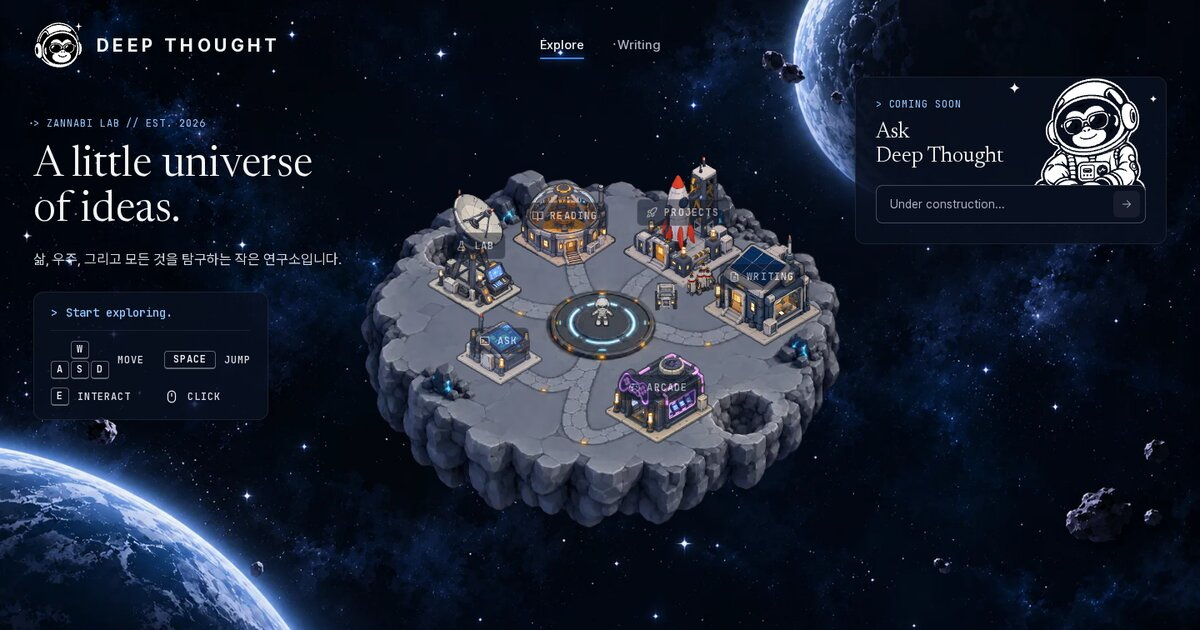
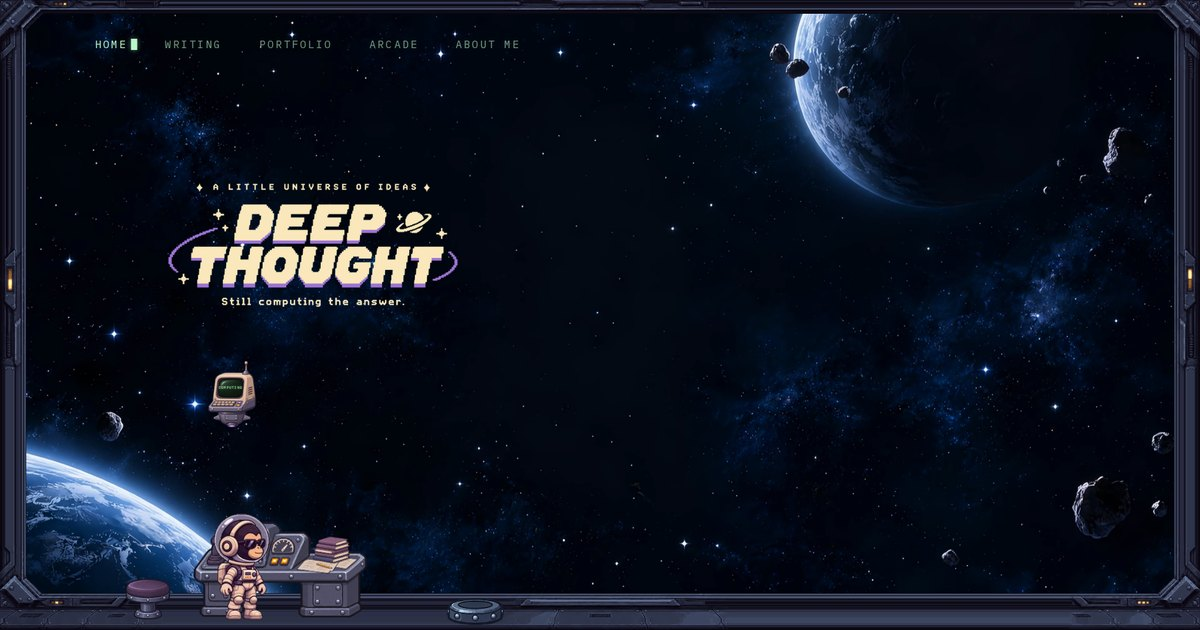
refactor: PC 전용 레이아웃, 스크램블·동작 줄이기 공용화, 스프라이트 시트 정보 분리, 미리보기 이미지·문서 갱신
- viewport width=1280 고정, 반응형 미디어쿼리 제거, 터치 기기는 배경 영상 대신 정지 그림
- useScramble 훅으로 메뉴·준비 중·행성 좌표의 스크램블 루프 통합, reducedMotion() 공용화
- 홀로그램·드론·지구본·데스크 불빛 시트 정보를 cockpit-sheets.ts로 분리
- opengraph-image를 새 홈으로 다시 찍고 설명 갱신
- 안 쓰는 참고 그림 2장 삭제, README·DESIGN·art README 갱신

diff --git a/apps/web/components/hud/Zannabi.tsx b/apps/web/components/hud/Zannabi.tsx
@@ -2,7 +2,9 @@
 
 import { useEffect, useRef, useState } from 'react';
 import { HUD_EVENT } from '@/components/space/CockpitHud';
+import { reducedMotion } from '@/lib/motion';
 import * as L from './cockpit-layout';
+import { DESK, DRONE, GLOBE, HOLO } from './cockpit-sheets';
 import styles from './Zannabi.module.css';
 import {
   type Behavior,
@@ -39,17 +41,6 @@ import {
 
 const CELL: Box = [0, 0, 200, 240];
 const CANVAS: Box = [-60, -60, 420, 314];
-const HOLO = { frames: 24, fps: 14, w: 296, h: 441 };
-const DRONE = { w: 200, h: 304, frames: 49, fps: 21, crop: 491, from: 11, to: 36 };
-const DRONE_DY = [0, 0, 0, 0, 0, 0, 0, 0, 0, 0, 0, 3, 23, 45, 63, 68, 71, 71, 63, 35, 9, -15, -24, -31, -35, -36, -37, -38, -39, -39, -39, -35, -30, -19, -12, -4, -1, 0, 0, 0, 0, 0, 0, 0, 0, 0, 0, 0, 0];
-const GLOBE = { size: 176, spin: 24, off: 25, fps: 21, spinFps: 10.5 };
-const DESK_W = 554;
-const DESK_H = 307;
-const DESK_LIGHTS: [number, number, number, number, 'amber' | 'violet', number][] = [
-  [65, 46, 22, 14, 'violet', 300],
-  [249, 118, 21, 14, 'amber', 0],
-  [281, 118, 20, 14, 'amber', 1200],
-];
 const HOLD_MS = 900;
 const NOTICE = { reach: 1.8, cooldown: 25000 };
 const DONE_MS = 1100;
@@ -243,7 +234,7 @@ export function Zannabi() {
       droneDrawn = droneTick;
       droneCtx.clearRect(0, 0, drone.width, drone.height);
       droneCtx.drawImage(droneImg, droneTick * DRONE.w, 0, DRONE.w, DRONE.h, 0, 0, drone.width, drone.height);
-      const lift = DRONE_DY[droneTick]! / DRONE.crop;
+      const lift = DRONE.dy[droneTick]! / DRONE.crop;
       droneBody.style.translate = `0 ${lift * 100}%`;
       terminal.style.setProperty('--lift', `${lift}`);
     };
@@ -606,7 +597,7 @@ export function Zannabi() {
       return behavior;
     };
 
-    const still = matchMedia('(prefers-reduced-motion: reduce)').matches;
+    const still = reducedMotion();
     let id = 0;
     let last = 0;
     let acc = 0;
@@ -712,13 +703,13 @@ export function Zannabi() {
   return (
     <div ref={laneRef} className={styles.lane} style={{ width: L.ROOM.w, height: L.ROOM.h }} aria-hidden>
       <div ref={deskRef} className={styles.desk} style={L.box(L.DESK)}>
-        <img src="/world/cockpit-desk.webp" alt="" width={DESK_W} height={DESK_H} draggable={false} />
+        <img src="/world/cockpit-desk.webp" alt="" width={DESK.w} height={DESK.h} draggable={false} />
         <Tip>Pilot the ship</Tip>
-        {DESK_LIGHTS.map(([x, y, w, h, tone, delay]) => (
+        {DESK.lights.map(([x, y, w, h, tone, delay]) => (
           <span
             key={`${x}-${y}`}
             className={styles[tone]}
-            style={{ left: `${(x / DESK_W) * 100}%`, top: `${(y / DESK_H) * 100}%`, width: `${(w / DESK_W) * 100}%`, height: `${(h / DESK_H) * 100}%`, animationDelay: `${delay}ms` }}
+            style={{ left: `${(x / DESK.w) * 100}%`, top: `${(y / DESK.h) * 100}%`, width: `${(w / DESK.w) * 100}%`, height: `${(h / DESK.h) * 100}%`, animationDelay: `${delay}ms` }}
           />
         ))}
         <canvas ref={globeRef} className={styles.globe} style={{ left: `${L.GLOBE.x * 100}%`, bottom: `${L.GLOBE.y * 100}%`, width: L.GLOBE.w }} />

diff --git a/apps/web/components/space/CockpitHud.tsx b/apps/web/components/space/CockpitHud.tsx
@@ -1,7 +1,7 @@
 'use client';
 
 import { useEffect, useState } from 'react';
-import { scramble, settled } from '@/lib/scramble';
+import { useScramble } from '@/lib/scramble';
 import styles from './CockpitHud.module.css';
 
 export const HUD_EVENT = 'cockpit:hud';
@@ -9,37 +9,17 @@ export const HUD_EVENT = 'cockpit:hud';
 const TARGET = { x: 930, y: 140, r: 11 };
 const TEXT = { x: 975, y: 118 };
 const READOUT = 'TARGET: KEPLER-442b · 4.2 AU';
-const START_MS = 550;
-const TYPE = { settle: 420, spread: 24, blank: true };
+const TYPE = { settle: 420, spread: 24, blank: true, delay: 550, step: 45 };
 
 export function CockpitHud() {
   const [on, setOn] = useState(false);
-  const [line, setLine] = useState('');
+  const line = useScramble(READOUT, TYPE, on);
 
   useEffect(() => {
     const toggle = (event: Event) => setOn((event as CustomEvent<boolean>).detail);
     window.addEventListener(HUD_EVENT, toggle);
     return () => window.removeEventListener(HUD_EVENT, toggle);
   }, []);
-
-  useEffect(() => {
-    if (!on) return setLine('');
-    if (matchMedia('(prefers-reduced-motion: reduce)').matches) return setLine(READOUT);
-    const begin = performance.now();
-    let id = 0;
-    let last = 0;
-    const frame = (now: number) => {
-      const elapsed = now - begin - START_MS;
-      const done = settled(READOUT, elapsed, TYPE);
-      if (now - last >= 45 || done) {
-        last = now;
-        setLine(elapsed < 0 ? '' : scramble(READOUT, elapsed, TYPE));
-      }
-      if (!done) id = requestAnimationFrame(frame);
-    };
-    id = requestAnimationFrame(frame);
-    return () => cancelAnimationFrame(id);
-  }, [on]);
 
   const { x, y, r } = TARGET;
   const c = 5;
@@ -53,7 +33,7 @@ export function CockpitHud() {
       </g>
       <polyline points={`${x + r},${y - r + 2} ${x + r + 18},${TEXT.y - 3} ${TEXT.x - 6},${TEXT.y - 3}`} pathLength={1} className={`${styles.line} ${styles.leader}`} />
       <text x={TEXT.x} y={TEXT.y} className={styles.text}>
-        {line}
+        {on ? line : ''}
       </text>
     </svg>
   );

diff --git a/apps/web/lib/scramble.ts b/apps/web/lib/scramble.ts
@@ -1,6 +1,9 @@
+import { useEffect, useState } from 'react';
+import { reducedMotion } from './motion';
+
 const GLYPHS = 'ABCDEFGHIJKLMNOPQRSTUVWXYZ0123456789#%&*/<>';
 
-type Scramble = { settle: number; spread: number; blank?: boolean };
+type Scramble = { settle: number; spread: number; blank?: boolean; delay?: number; step?: number };
 
 export const scramble = (text: string, elapsed: number, { settle, spread, blank }: Scramble) =>
   [...text]
@@ -12,3 +15,29 @@ export const scramble = (text: string, elapsed: number, { settle, spread, blank 
     .join('');
 
 export const settled = (text: string, elapsed: number, { settle, spread }: Scramble) => elapsed >= settle + text.length * spread;
+
+export function useScramble(text: string, options: Scramble, run: unknown) {
+  const [line, setLine] = useState(text);
+  const { settle, spread, blank, delay = 0, step = 40 } = options;
+
+  useEffect(() => {
+    if (!run || reducedMotion()) return setLine(text);
+    const type = { settle, spread, blank };
+    const begin = performance.now() + delay;
+    let id = 0;
+    let last = 0;
+    const frame = (now: number) => {
+      const elapsed = now - begin;
+      const done = settled(text, elapsed, type);
+      if (now - last >= step || done) {
+        last = now;
+        setLine(elapsed < 0 ? '' : done ? text : scramble(text, elapsed, type));
+      }
+      if (!done) id = requestAnimationFrame(frame);
+    };
+    id = requestAnimationFrame(frame);
+    return () => cancelAnimationFrame(id);
+  }, [run, text, settle, spread, blank, delay, step]);
+
+  return line;
+}

diff --git a/apps/web/components/hud/HomeNav.tsx b/apps/web/components/hud/HomeNav.tsx
@@ -1,8 +1,8 @@
 'use client';
 
 import Link from 'next/link';
-import { useRef } from 'react';
-import { scramble, settled } from '@/lib/scramble';
+import { useState } from 'react';
+import { useScramble } from '@/lib/scramble';
 import styles from './HomeNav.module.css';
 
 type Item = { label: string; href: string };
@@ -16,32 +16,15 @@ const ITEMS: Item[] = [
 ];
 
 const HOVER = { settle: 160, spread: 45 };
-const STEP_MS = 40;
 
 function Label({ text }: { text: string }) {
-  const ref = useRef<HTMLSpanElement>(null);
-  const running = useRef(0);
-
-  const play = () => {
-    const el = ref.current;
-    if (!el || running.current || matchMedia('(prefers-reduced-motion: reduce)').matches) return;
-    const begin = performance.now();
-    let last = 0;
-    const frame = (now: number) => {
-      const elapsed = now - begin;
-      const done = settled(text, elapsed, HOVER);
-      if (now - last >= STEP_MS || done) {
-        last = now;
-        el.textContent = done ? text : scramble(text, elapsed, HOVER);
-      }
-      running.current = done ? 0 : requestAnimationFrame(frame);
-    };
-    running.current = requestAnimationFrame(frame);
-  };
+  const [hovered, setHovered] = useState(0);
+  const line = useScramble(text, HOVER, hovered);
+  const play = () => setHovered((n) => n + 1);
 
   return (
-    <span ref={ref} onPointerEnter={play} onFocus={play}>
-      {text}
+    <span onPointerEnter={play} onFocus={play}>
+      {line}
     </span>
   );
 }

diff --git a/apps/web/components/Pending.tsx b/apps/web/components/Pending.tsx
@@ -1,36 +1,16 @@
 'use client';
 
 import Link from 'next/link';
-import { useEffect, useState } from 'react';
-import { scramble, settled } from '@/lib/scramble';
+import { useScramble } from '@/lib/scramble';
 import hud from './Hud.module.css';
 import { PageShell } from './PageShell';
 import styles from './Pending.module.css';
 
 const STATUS = 'COMING SOON';
 const TYPE = { settle: 360, spread: 55, blank: true };
-const STEP_MS = 40;
 
 export function Pending({ current, area, message }: { current: string; area: string; message: string }) {
-  const [line, setLine] = useState(STATUS);
-
-  useEffect(() => {
-    if (matchMedia('(prefers-reduced-motion: reduce)').matches) return;
-    const begin = performance.now();
-    let id = 0;
-    let last = 0;
-    const frame = (now: number) => {
-      const elapsed = now - begin;
-      const done = settled(STATUS, elapsed, TYPE);
-      if (now - last >= STEP_MS || done) {
-        last = now;
-        setLine(done ? STATUS : scramble(STATUS, elapsed, TYPE));
-      }
-      if (!done) id = requestAnimationFrame(frame);
-    };
-    id = requestAnimationFrame(frame);
-    return () => cancelAnimationFrame(id);
-  }, []);
+  const line = useScramble(STATUS, TYPE, true);
 
   return (
     <PageShell current={current}>

diff --git a/apps/web/lib/site.ts b/apps/web/lib/site.ts
@@ -5,7 +5,7 @@ export const AUTHOR = { name: '신중선', jobTitle: 'Backend Developer' };
 export const GA_ID = 'G-SEG9MW5TKD';
 export const FEED_PATH = '/feed.xml';
 export const RSS_ALTERNATE = { 'application/rss+xml': [{ url: FEED_PATH, title: SITE_NAME }] };
-export const OG_IMAGE = { url: '/opengraph-image.jpg', width: 1200, height: 630, alt: 'Deep Thought - 떠 있는 섬 위의 연구소와 Zannabi' };
+export const OG_IMAGE = { url: '/opengraph-image.jpg', width: 1200, height: 630, alt: 'Deep Thought - 우주선 창 너머 우주와 조종석의 Zannabi' };
 export const OPEN_GRAPH_BASE = { siteName: SITE_NAME, locale: 'ko_KR', images: [OG_IMAGE] };
 
 export function jsonLdScript(data: object): string {

diff --git a/apps/web/components/hud/cockpit-sheets.ts b/apps/web/components/hud/cockpit-sheets.ts
@@ -1,0 +1,24 @@
+export const HOLO = { frames: 24, fps: 14, w: 296, h: 441 };
+
+export const DRONE = {
+  w: 200,
+  h: 304,
+  frames: 49,
+  fps: 21,
+  crop: 491,
+  from: 11,
+  to: 36,
+  dy: [0, 0, 0, 0, 0, 0, 0, 0, 0, 0, 0, 3, 23, 45, 63, 68, 71, 71, 63, 35, 9, -15, -24, -31, -35, -36, -37, -38, -39, -39, -39, -35, -30, -19, -12, -4, -1, 0, 0, 0, 0, 0, 0, 0, 0, 0, 0, 0, 0],
+};
+
+export const GLOBE = { size: 176, spin: 24, off: 25, fps: 21, spinFps: 10.5 };
+
+export const DESK = {
+  w: 554,
+  h: 307,
+  lights: [
+    [65, 46, 22, 14, 'violet', 300],
+    [249, 118, 21, 14, 'amber', 0],
+    [281, 118, 20, 14, 'amber', 1200],
+  ] as [number, number, number, number, 'amber' | 'violet', number][],
+};

diff --git a/apps/web/components/space/SpaceBackdrop.tsx b/apps/web/components/space/SpaceBackdrop.tsx
@@ -1,6 +1,7 @@
 'use client';
 
 import { useEffect, useRef } from 'react';
+import { reducedMotion } from '@/lib/motion';
 import styles from './SpaceBackdrop.module.css';
 
 export const POSTER = '/world/space-loop-poster.webp';
@@ -18,8 +19,7 @@ export function SpaceBackdrop({ onReady }: { onReady: () => void }) {
     poster.decode().finally(() => alive && onReadyRef.current());
 
     const video = videoRef.current;
-    const still = matchMedia('(prefers-reduced-motion: reduce), (max-width: 768px)');
-    if (video && !still.matches) {
+    if (video && !reducedMotion() && !matchMedia('(hover: none)').matches) {
       video.src = VIDEO;
       video.play().catch(() => {});
     }

diff --git a/apps/web/components/space/WindowFrame.tsx b/apps/web/components/space/WindowFrame.tsx
@@ -1,6 +1,7 @@
 'use client';
 
 import { useEffect, useRef } from 'react';
+import { reducedMotion } from '@/lib/motion';
 import styles from './WindowFrame.module.css';
 
 export const FRAME_SRC = '/world/window-frame.png';
@@ -87,7 +88,7 @@ export function WindowFrame({ onLayout }: { onLayout: (layout: GlassLayout) => v
     const lights = new Image();
     frame.src = FRAME_SRC;
     lights.src = LIGHTS_SRC;
-    const still = matchMedia('(prefers-reduced-motion: reduce)').matches;
+    const still = reducedMotion();
     const ready = () => frame.complete && frame.naturalWidth > 0 && lights.complete && lights.naturalWidth > 0;
 
     let scale = 1;

diff --git a/apps/web/components/space/ShootingStars.tsx b/apps/web/components/space/ShootingStars.tsx
@@ -1,6 +1,7 @@
 'use client';
 
 import { useEffect, useRef } from 'react';
+import { reducedMotion } from '@/lib/motion';
 import styles from './ShootingStars.module.css';
 
 const ART = { w: 1280, h: 720 };
@@ -92,7 +93,7 @@ export function ShootingStars() {
     const canvas = canvasRef.current;
     const ctx = canvas?.getContext('2d');
     if (!canvas || !ctx) return;
-    if (matchMedia('(prefers-reduced-motion: reduce)').matches) return;
+    if (reducedMotion()) return;
 
     const demo = process.env.NODE_ENV !== 'production' && new URLSearchParams(location.search).has('meteors');
     const [gapMin, gapMax] = demo ? DEMO_GAP_MS : GAP_MS;

diff --git a/apps/web/app/layout.tsx b/apps/web/app/layout.tsx
@@ -22,7 +22,7 @@ export const metadata: Metadata = {
   },
 };
 
-export const viewport: Viewport = { themeColor: '#080F1F' };
+export const viewport: Viewport = { width: 1280, themeColor: '#080F1F' };
 
 const siteJsonLd = {
   '@context': 'https://schema.org',

diff --git a/apps/web/components/PageShell.module.css b/apps/web/components/PageShell.module.css
@@ -12,12 +12,3 @@
   margin: 72px auto 0;
 }
 
-@media (max-width: 1023px) {
-  .shell {
-    padding: 24px 16px 64px;
-  }
-
-  .main {
-    margin-top: 40px;
-  }
-}
